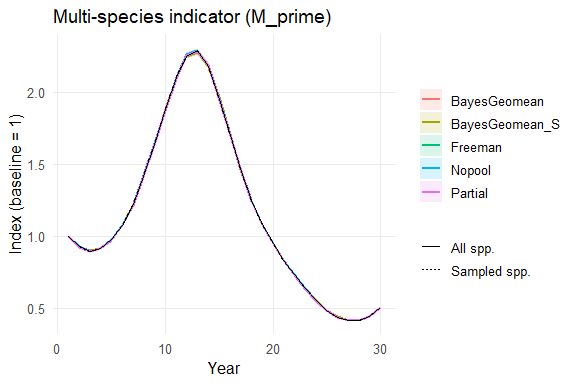
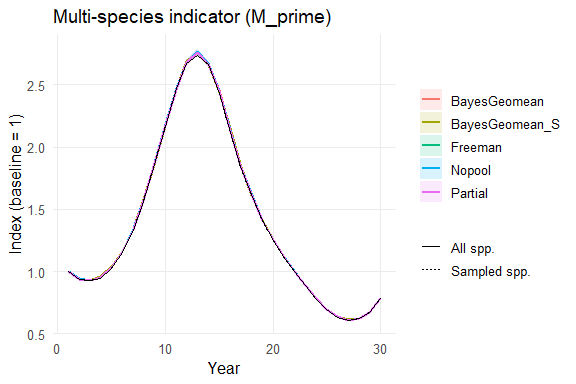
update README

diff --git a/README.md b/README.md
@@ -38,7 +38,7 @@ list that is then passed to `run_full_analysis()`.
 ``` r
 ## Specify simulation settings
 sim_args <- list(n_species = 40, n_years = 30, seed = 232680,
-                 ## Growth rate DGP
+                 ## Growth rate data-generating process (DGP)
                  dgp_mode = "spline", # "spline","rw","ar1","changepoint","seasonal","mixture"
                  ## DGP options (sub-options apply to specific DGPs as stated)
                  # spline options
@@ -50,12 +50,12 @@ sim_args <- list(n_species = 40, n_years = 30, seed = 232680,
                  # seasonal
                  A = 0.15, period = 8, phi0 = runif(1, 0, 2*pi),
                  # mixture of random walks
-                 K = 5, # number of groups
+                 K_guilds = 5, # number of groups
                  ## Simulate species/observation options (cross-DGP)
                  # species/state variation
                  sigma_sp = 0.05, sigma_delta = 0.05, sd_alpha0 = 0.4,
                  innov_dist = "normal", df_u = 3, # "normal" or "student_t" (df_u for t only)
-                 sp_trend = "random_slope", # "none" or "random_slope"
+                 sp_trend = "none", # "none" or "random_slope"
                  sigma_gamma = 0.05, log_sd_se = 0.35, 
                  use_delta = FALSE, # cross-species annual shocks?
                  # observation model
@@ -96,7 +96,7 @@ out <- run_full_analysis(data_source = "simulate", # simulated data or empirical
                          ## Cross-model settings
                          # legacy seFromData overridden by model-specific obs_var_model settings, seFromData = T (or F) sets obs_var_model = 2 (or 4
                          # but only if obs_var_model not specified
-                         brc_opts = list(num_knots=12, seFromData=TRUE, Y1perfect=TRUE),
+                         brc_opts = list(num_knots=12, seFromData=TRUE, Y1perfect=TRUE, m.scale = "loge"),
                          ## Growth-rate presentation scale (model returns both anyway, this is for plot)
                          growth_scale = "log")
 ```
@@ -143,13 +143,14 @@ out <- run_full_analysis(data_source = "simulate", # simulated data or empirical
 
 Note that in this example we are just running very short chains, and so
 it won’t be surprising if we don’t have satisfactory convergence
-everywhere. In the example run we are using a spline-based DGP for the
-underlying growth rates. This is congenial to the actual models
-(i.e. the DGP assumed by the models is actually true). We are not
-including any MNAR missingness, or any missingness at all. In general we
-expect all models to do well in this scenario, and for the “true” curves
-to overlap. Indeed, in terms of the geometric mean-based indicator, all
-models overlie the truth with high confidence.
+everywhere. In the example run we are using a spline-based
+data-generating process (DGP) for the underlying growth rates. This is
+congenial to the actual models (i.e. the DGP assumed by the models is
+actually true). We are not including any MNAR missingness, or any
+missingness at all. In general we expect all models to do well in this
+scenario, and for the “true” curves to overlap. Indeed, in terms of the
+geometric mean-based indicator, all models overlie the truth with high
+confidence.
 
 ``` r
 # Check convergence (preview only)
@@ -216,39 +217,39 @@ evaluate_inclusion_process(out$sim, verbose = TRUE)
     [26] NA NA NA NA
 
     $diagnostics
-       year n_pairs sd_I       sd_r         reason
-    1     2      40    0 0.06733328 no_variation_I
-    2     3      40    0 0.06733328 no_variation_I
-    3     4      40    0 0.06733328 no_variation_I
-    4     5      40    0 0.06733328 no_variation_I
-    5     6      40    0 0.06733328 no_variation_I
-    6     7      40    0 0.06733328 no_variation_I
-    7     8      40    0 0.06733328 no_variation_I
-    8     9      40    0 0.06733328 no_variation_I
-    9    10      40    0 0.06733328 no_variation_I
-    10   11      40    0 0.06733328 no_variation_I
-    11   12      40    0 0.06733328 no_variation_I
-    12   13      40    0 0.06733328 no_variation_I
-    13   14      40    0 0.06733328 no_variation_I
-    14   15      40    0 0.06733328 no_variation_I
-    15   16      40    0 0.06733328 no_variation_I
-    16   17      40    0 0.06733328 no_variation_I
-    17   18      40    0 0.06733328 no_variation_I
-    18   19      40    0 0.06733328 no_variation_I
-    19   20      40    0 0.06733328 no_variation_I
-    20   21      40    0 0.06733328 no_variation_I
-    21   22      40    0 0.06733328 no_variation_I
-    22   23      40    0 0.06733328 no_variation_I
-    23   24      40    0 0.06733328 no_variation_I
-    24   25      40    0 0.06733328 no_variation_I
-    25   26      40    0 0.06733328 no_variation_I
-    26   27      40    0 0.06733328 no_variation_I
-    27   28      40    0 0.06733328 no_variation_I
-    28   29      40    0 0.06733328 no_variation_I
-    29   30      40    0 0.06733328 no_variation_I
+       year n_pairs sd_I sd_r            reason
+    1     2      40    0    0 no_variation_both
+    2     3      40    0    0 no_variation_both
+    3     4      40    0    0 no_variation_both
+    4     5      40    0    0 no_variation_both
+    5     6      40    0    0 no_variation_both
+    6     7      40    0    0 no_variation_both
+    7     8      40    0    0 no_variation_both
+    8     9      40    0    0 no_variation_both
+    9    10      40    0    0 no_variation_both
+    10   11      40    0    0 no_variation_both
+    11   12      40    0    0 no_variation_both
+    12   13      40    0    0 no_variation_both
+    13   14      40    0    0 no_variation_both
+    14   15      40    0    0 no_variation_both
+    15   16      40    0    0 no_variation_both
+    16   17      40    0    0 no_variation_both
+    17   18      40    0    0 no_variation_both
+    18   19      40    0    0 no_variation_both
+    19   20      40    0    0 no_variation_both
+    20   21      40    0    0 no_variation_both
+    21   22      40    0    0 no_variation_both
+    22   23      40    0    0 no_variation_both
+    23   24      40    0    0 no_variation_both
+    24   25      40    0    0 no_variation_both
+    25   26      40    0    0 no_variation_both
+    26   27      40    0    0 no_variation_both
+    27   28      40    0    0 no_variation_both
+    28   29      40    0    0 no_variation_both
+    29   30      40    0    0 no_variation_both
 
     $note
-    [1] "All annual selection–growth correlations are NA for T-1 = 29. This is expected when inclusion or growth lacks cross-species variation (e.g., inclusion all 1s). Reason summary: [no_variation_I×29]. Source of r: mu_true + delta_true (+ gamma_s)."
+    [1] "All annual selection–growth correlations are NA for T-1 = 29. This is expected when inclusion or growth lacks cross-species variation (e.g., inclusion all 1s). Reason summary: [no_variation_both×29]. Source of r: mu_true + delta_true (+ gamma_s)."
 
 <div id="refs" class="references csl-bib-body hanging-indent"
 entry-spacing="0" line-spacing="2">
